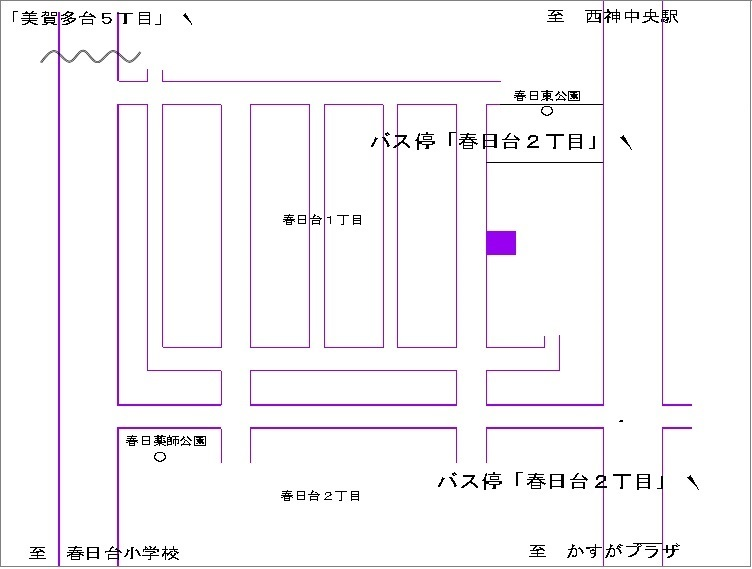
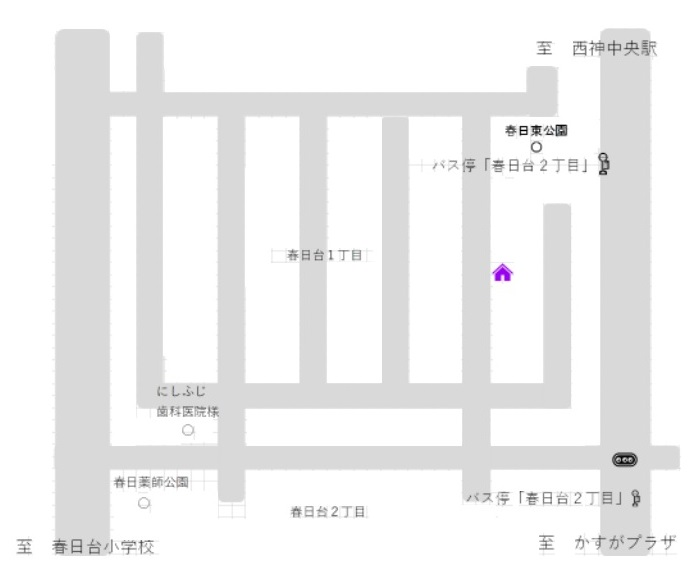
Add files via upload

diff --git a/office.html b/office.html
@@ -71,7 +71,7 @@
 <p></p>
 
 <h2>
-<p>事業所概要</p>
+<p>事務所概要</p>
 </h2>
 
 <hr></hr>
@@ -94,7 +94,7 @@
 </h4>
 
 
-<p><img src="map.jpg" alt="" name="map" width="700" height="600" id="map" /></p>
+<p><iframe src="https://www.google.com/maps/embed?pb=!1m18!1m12!1m3!1d6559.197232365127!2d135.00273279989952!3d34.71530253291558!2m3!1f0!2f0!3f0!3m2!1i1024!2i768!4f13.1!3m3!1m2!1s0x60007ff700a16dd3%3A0x9c4dfd97b3cfae7e!2z44CSNjUxLTIyNzYg5YW15bqr55yM56We5oi45biC6KW_5Yy65pil5pel5Y-w77yR5LiB55uu77yR77yX4oiS77yU!5e0!3m2!1sja!2sjp!4v1570860653697!5m2!1sja!2sjp" width="600" height="450" frameborder="0" style="border:0;" allowfullscreen=""></iframe></p>
 
 <div class="clear"></div>
 

diff --git a/access.html b/access.html
@@ -45,6 +45,8 @@
 <p>アクセス</p>
 </h1>
 <p><img src="map.jpg" alt="" name="map" width="700" height="600" id="map" /></p>
+<p><iframe src="https://www.google.com/maps/embed?pb=!1m18!1m12!1m3!1d6559.197232365127!2d135.00273279989952!3d34.71530253291558!2m3!1f0!2f0!3f0!3m2!1i1024!2i768!4f13.1!3m3!1m2!1s0x60007ff700a16dd3%3A0x9c4dfd97b3cfae7e!2z44CSNjUxLTIyNzYg5YW15bqr55yM56We5oi45biC6KW_5Yy65pil5pel5Y-w77yR5LiB55uu77yR77yX4oiS77yU!5e0!3m2!1sja!2sjp!4v1570860653697!5m2!1sja!2sjp" width="600" height="450" frameborder="0" style="border:0;" allowfullscreen=""></iframe></p>
+
 
 <h6><p>●車でお越しの場合●</p></h6>
 <h4><p>★来客用駐車場１台あり</p>

diff --git a/work.html b/work.html
@@ -67,7 +67,7 @@
 </h4>
 
 <h2>
-<p>遺産に関すること</p>
+<p>遺言に関すること</p>
 </h2>
 
 <hr></hr>
